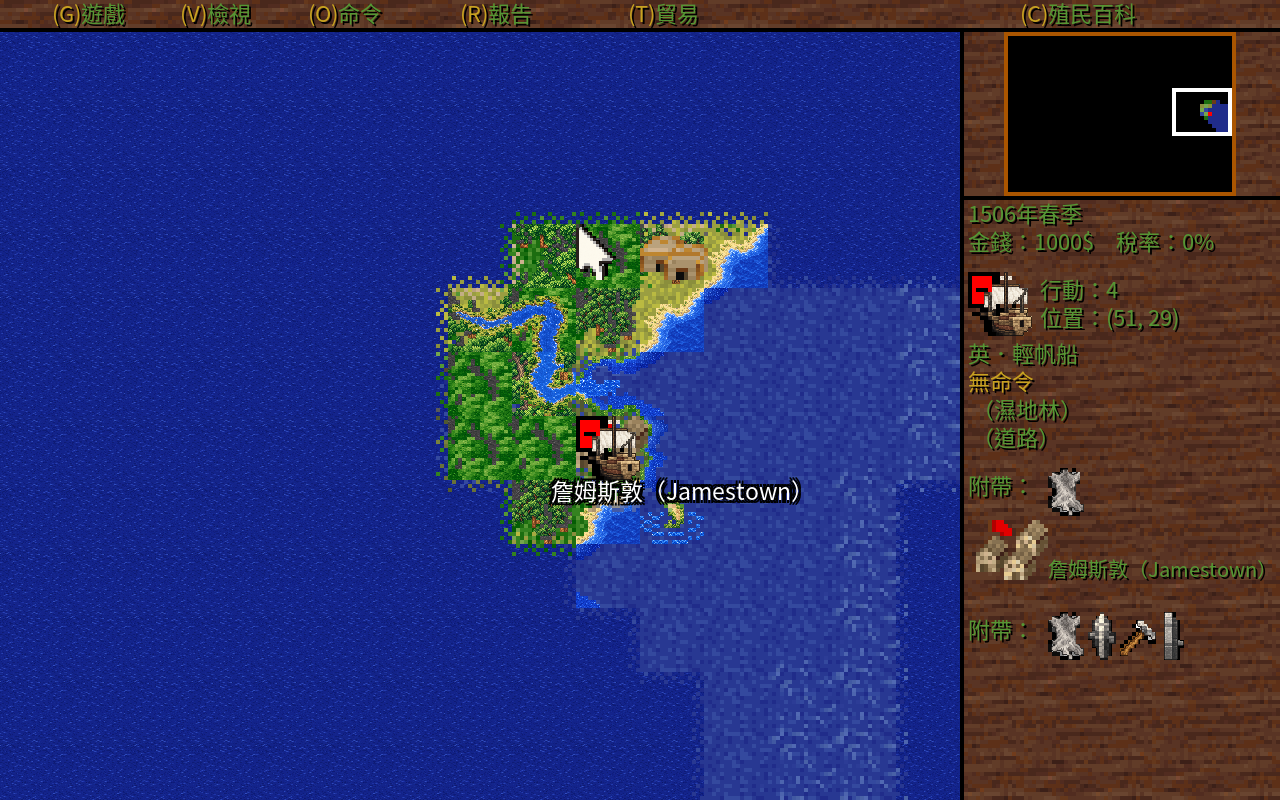
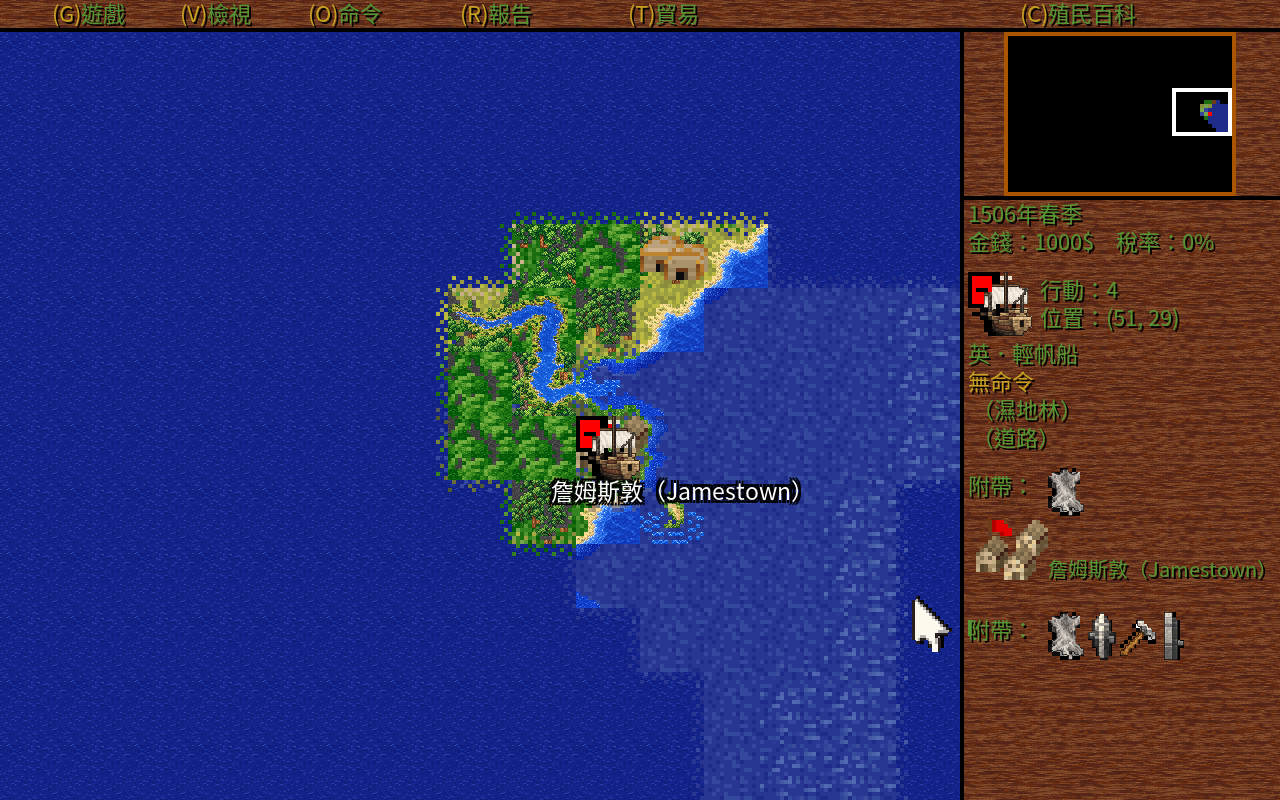
docs: 更新已驗收 HD 世界截圖與素材入口

Changed region(s): [[0.0, 0.0, 1.0, 1.0], [0.4375, 0.2812, 0.5, 0.3438]]

diff --git a/CONTEXT.md b/CONTEXT.md
@@ -18,7 +18,7 @@
 | HD中央第009幀 | 中央第009幀已正式接線並限定CONFORMED，合計十四種HD素材／15檔，維持單一城內來源群組、41Go檔／24來源綁定。734Go零skip、go vet、49點原版狀態／存檔、200來源反例及既有31海洋／17人物／20木棚反例通過。十來源130次呼叫、430234事件及480筆游標還原與獨立原版模型相符。452組五語GUI、1808設定事件、17466不透明游標像素及中央五語恢復通過，14筆中央現況診斷均有HD，原始逐寫快照仍沿R44。650筆實際輸入四側重播至1005200000步，完整CPU／RAM／VGA／DAC、WAV及存檔全同。44種啟動缺件／恢復、219設定事件及44項封裝拒絕通過，原日文HD偏好不變。三組暫停守門回原圖保留；木棚放開139點，正常重進恢復263點。證據根hd-building009-formal-r45，其他地形、人物、動畫、跨平台效能與完整HD未完成，沒有新發行。 |
 | HD城內群組 | 規格064現行正式結果見上列R45。R43九來源的限定CONFORMED及原始驗證仍保留。R46地形逐寫研究已有13來源及暫存轉送模型，仍為DRAFT，未加入正式HD。 |
 | HD世界地形 | 規格062 R58限定CONFORMED，世界079與海洋共用既有觀測，合計45種正式素材／清冊46檔、45Go／28綁定。827Go零skip與go vet、49點原版來源及31反例、92組五語GUI、20點獨立來源／330992個像素、97筆實際輸入四側至199200000步通過。存檔前後十次五語恢復各1129點；沒有守門回退。正式play=true的世界、城內與存檔返回通過，原版狀態／WAV／存檔保持；固定Linux ABBA成本比例1.1623。6種本批新行程與139項封裝拒絕通過。 證據根hd-terrain079-formal-r58。其他地形、游標、背景、動畫及全量HD仍未完成，沒有新發行。 |
-| README畫面 | HD殖民地、世界及顯示設定三圖沿R64，原PNG與來源程式468e835保持；主選單已更新為R66的HD背景、標題與木紋，來源程式fe97cf6。逐圖程式、正式素材數與指紋見[截圖紀錄](docs/screenshots/readme-captures.json)，沒有把舊三圖改標為新建置。首頁明示開發版，已發布封包保持。 |
+| README畫面 | 世界圖已更新為R67世界木紋，來源程式d48eb9d與69種素材；主選單沿R66／fe97cf6，殖民地與顯示設定沿R64／468e835。原PNG原樣保存，逐圖程式、素材數及指紋見[截圖紀錄](docs/screenshots/readme-captures.json)。本批繁中城內回退樣本未用於HD截圖，首頁仍明示開發版，已發布封包保持。 |
 | HD正式木棚 | [規格064](docs/spec/064-hd-colony-building-batch.md)第024幀限定CONFORMED，城內群組最新狀態見R45。R39原圖與alpha原樣加入graphics，正式39個Go檔／22來源綁定、既有啟動器與五檔封裝白名單已接線，五個來源方法與R40相同。703Go零skip、go vet、49點完整原版狀態／存檔、20木棚／17人物／31海洋反例通過；缺原版另驗三個明確skip。322組五語GUI、1288筆設定事件與12218個不透明游標像素通過；108組HD木棚263點有效、204區塊含alpha，51組木棚0點，另2組守門回原圖。拖曳來源不符仍回原圖並保留語言，放開後恢復。332筆實際輸入四側重播至604200000步，完整CPU／RAM／VGA／DAC、WAV與存檔全同。14種新行程缺件／恢復及14項封裝反例通過，69筆設定事件不改原版，原日文HD偏好位元組保持。證據根hd-building024-formal-r41；未接受背景RAM轉送，其他素材、動畫、跨平台效能、完整HD與新發行待續。 |
 | HD人物正式首個 | [規格063](docs/spec/063-hd-person-draw-lifecycle.md)限定CONFORMED。使用者確認的v2原圖及alpha已原樣加入graphics，人物第100幀接入正式建置、既有啟動器與封裝白名單。699Go零skip、go vet、49點原版狀態／存檔、17人物及31海洋反例通過；五個人物來源方法與R37相同。252組五語原版／HD、1008筆設定事件及9512個不透明游標像素通過，沒有守門回退。75組城內HD皆120點有效來源、92點含alpha而實際合成；51組主選單／世界／存檔／百科／離城等HD畫面皆0點。229筆實際輸入四側重播至458200000步，完整CPU／RAM／VGA／DAC、WAV及存檔全同。11種新行程缺件／錯件／連結及恢復驗證通過，54筆設定事件不改原版，日文HD偏好位元組不變；11項封裝反例全拒絕。原版參考與收據留本機hd-person-formal-r38。其他人物、動畫、跨平台效能及完整HD未完成，沒有新版發行。 |
 | 本輪範圍 | 五語切換、非英文英數高清字型、所有玩家可見圖像含小圖像與動畫幀的全量HD、實際遊玩影片與README。README已補背景來源及四張實際截圖；第一張精細像素風已定稿入庫。使用者已確認畫面外設定列、開啟暫停及放開後恢復，決定見[AGENTS.md](AGENTS.md#顯示設定定案)。新增功能未進發行版。已錄51.933秒真實操作，音軌、字幕與90秒成片未完成。入口[目標186](docs/goals/186-display-settings-and-gameplay-video.md)，Issue #62／#63／#64。 |

diff --git a/README.md b/README.md
@@ -72,6 +72,7 @@ Linux需要X11、OpenGL與ALSA；FUSE不可用時，在AppImage檔名後先加 `
 以下是開發中的五語顯示層與 HD 畫面，尚未收進目前發行版。截圖來自實際遊戲視窗，
 來源與指紋見[截圖紀錄](docs/screenshots/readme-captures.json)。全量 HD 包含商品、資源、單位、
 其餘小圖像、特殊游標與動畫幀，目前仍在逐項開發。
+已接線的生成 HD 原圖與來源清冊收在 [graphics/](graphics/)。
 
 ![繁體中文殖民地畫面與 HD 建築、人物及商品小圖像](docs/screenshots/hd-colony-zh.png)
 
@@ -79,7 +80,7 @@ Linux需要X11、OpenGL與ALSA；FUSE不可用時，在AppImage檔名後先加 `
 
 ![繁體中文世界畫面與 HD 海洋、地形](docs/screenshots/hd-world-zh.png)
 
-世界畫面：海洋、部分河岸與森林地形、側欄圖示已使用 HD 素材，其餘地形與單位逐項接續。
+世界畫面：海洋、部分河岸與森林地形、側欄圖示、頂端與側欄木紋已使用 HD 素材，其餘地形與單位逐項接續。
 
 ![五語與原版、HD 圖像模式的顯示設定](docs/screenshots/display-settings-zh.png)
 
@@ -94,7 +95,7 @@ Linux需要X11、OpenGL與ALSA；FUSE不可用時，在AppImage檔名後先加 `
 所有建置、遊戲執行、分析與抓圖都在 Docker 容器內進行，需要自備合法原版。
 
 - [目前脈絡](CONTEXT.md)、[工作計畫](WORKLIST.md)（由 `docs/worklist.json` 產生）
-- [多語系、HD 切換與實際遊玩影片](docs/goals/186-display-settings-and-gameplay-video.md)：五語整包後端與設定保存已接線；十二種城內建築與景物、海洋與二十一種世界地形圖塊及碎片、一個人物、三十種小圖像、一般游標及主選單背景與木紋已接正式HD顯示。全量圖像包含小圖像與動畫幀，仍在逐項開發，尚未收進目前發行版。
+- [多語系、HD 切換與實際遊玩影片](docs/goals/186-display-settings-and-gameplay-video.md)：五語整包後端與設定保存已接線；十二種城內建築與景物、海洋與二十一種世界地形圖塊及碎片、一個人物、三十種小圖像、一般游標、主選單背景與木紋，以及世界與城內木紋已接正式HD顯示。全量圖像包含小圖像與動畫幀，仍在逐項開發，尚未收進目前發行版。
 - [規格](docs/spec/)與[各輪目標](docs/goals/)
 - [驗證矩陣](docs/verification-matrix.md)（`tools/verification_matrix.py` 產生）
 - [研究證據](RESEARCH-LOG.md)與[工作歷程](WORKLOG.md)

diff --git a/WORKLOG.md b/WORKLOG.md
@@ -6082,3 +6082,5 @@ R66程式與兩張生成圖已以fe97cf6提交並推送main。README主選單改
 檢查器修正及限制：第一版觀測閉包誤收CBA脈絡的所有寫入而達事件上限，限三個已驗指令後通過。89點的早期來源計數差由中間RAM漏收造成，閉包模型補齊後全等，沒有放寬正式程式。GUI先後修正phase名稱遮蔽及英文模式誤等翻譯欄位的腳本錯誤；74項正式GUI另重新執行。正式獨立模型遇六筆非ES:DI目的寫入，依READY邊界回未知並撤銷；來源及像素檢查乾淨重跑。啟動腳本漏列wood來源分派已修正，第二批六個缺件通過後恢復視窗未在45秒出現；原輸出保留，第三批同容器映像及同命令七項乾淨重跑通過。首兩批不記整批PASS。
 
 Docker均為斷網、UID/GID1000、有限CPU／記憶體／PID與外層逾時，Xvfb有trap。收尾稽核核對原版288檔、Git追蹤邊界、檔案擁有權及容器清理。沒有建立新Release。
+
+R67程式與第69張正式生成PNG已以d48eb9d提交並推送main。README世界圖原樣複製正式繁中HD樣本，來源程式d48eb9d；主選單R66與城內／設定R64的原PNG及逐圖來源保持。
